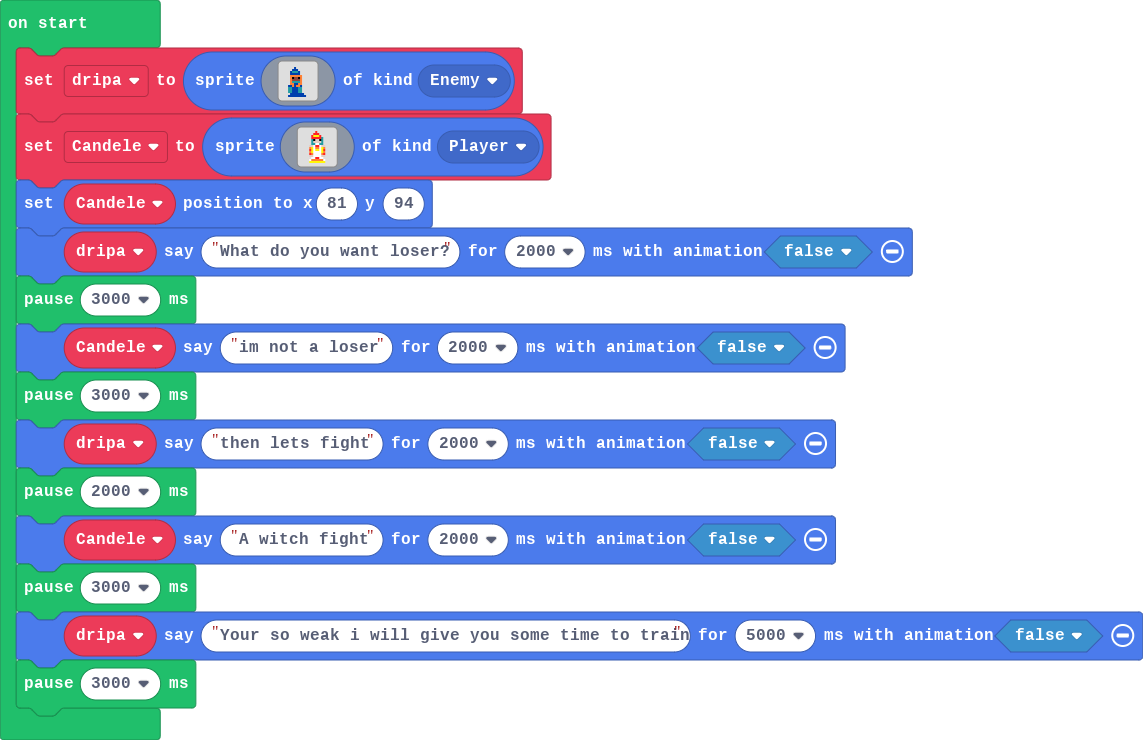
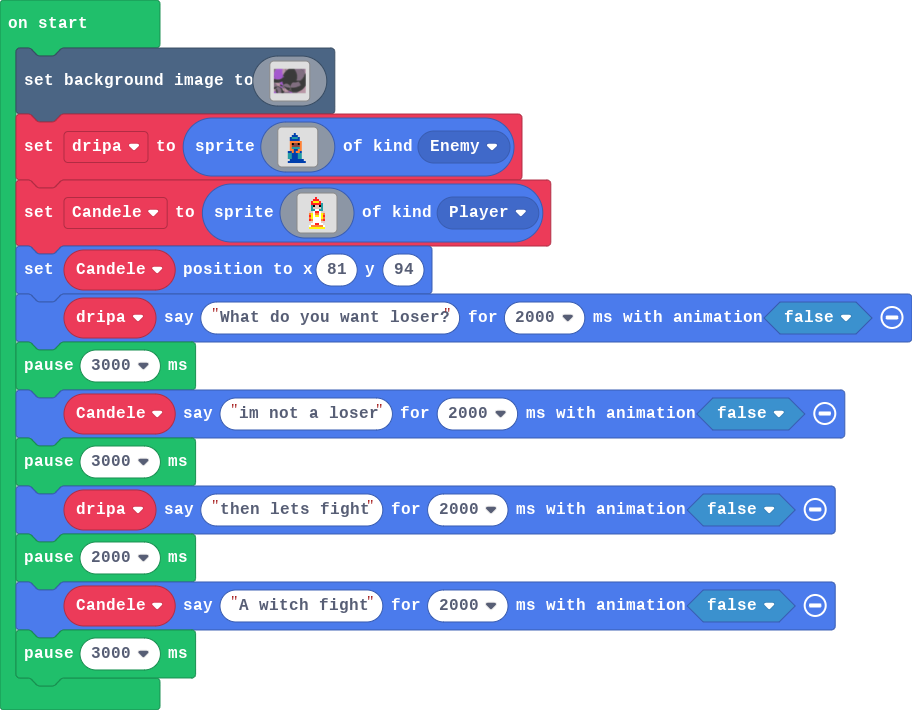
Update main.blocks, main.ts, tilemap.g.jres, tilemap.g.ts

diff --git a/main.ts b/main.ts
@@ -1,6 +1,128 @@
 namespace SpriteKind {
     export const which = SpriteKind.create()
 }
+scene.setBackgroundImage(img`
+    cccccccccccccaaaaaaaaaaaaaaaaaaaaaaaaaaaaaaaabbbbbbbbbbbbbffbbbbbbbbbbbbbbffffffffffffffffffffffffffffffcccccccccccccccccccccccccccccffccccccccccccccccccccbbbbb
+    cccccccccccccaaaaaaaaaaaaaaaaaaaaaaaaaaaaaaabbbbbbbbbbbbbbbfbbbbbbbbbbbbffffffffffffffffffffffffffffffffcccccccccccccccccccccccccccccccffcccccccccccccccccccbbbb
+    ccccccccccccaaaaaaaaaaaaaaaaaaaaaaaaaaaaaaaabbbbbbbbbbbbbbbffbbbbbbbbbbffffffffffffffffffffffffffffffffffccccccccccccccccccccccccccccccccfccccccccccccccccccbbbb
+    cccccccccccaaaaaaaaaaaaaaaaaaaaaaaaaaaaaaaaabbbbbbbbbbbbbbbffbbbbbbbbfffffffffffffffffffffffffffffffffffffccccccccccccccccccccccccccccccccffccccccccccccccccbbbb
+    ccccccccccaaaaaaaaaaaaaaaaaaaaaaaaaaaaaaaaaabbbbbbbbbbbbbbbbfbbbbbbbfffffffffffffffffffffffffffffffffffffffcccccccccccccccccccccccccccccccccfcccccccccccccccbbbb
+    ccccccccccaaaaaaaaaaaaaaaaaaaaaaaaaaaaaaaaaabbbbbbbbbbbbbbbbfbbbbbbffffffffffffffffffffffffffffffffffffffffccccccccccccccccccccccccccccccccccfccccccccccccccbbbb
+    cccccccccaaaaaaaaaaaaaaaaaaaaaaaaaaaaaaaaaaabbbbbbbbbbbbbbbbffbbbfffffffffffffffffffffffffffffffffffffffffffccccccccccccccccccccccccccccccccccffccccccccccccbbbb
+    ccccccccaaaaaaaaaaaaaaaaaaaaaaaaaaaaaaaaaaaabbbbbbbbbbbbbbbbffbbfffffffffffffffffffffffffffffffffffffffffffffcccccccccccccccccccccccccccccccccccfcccccccccccbbbb
+    ccccccccaaaaaaaaaaaaaaaaaaaaaaaaaaaaaaaaaaaabbbbbbbbbbbbbbbbffbffffffffffffffffffffffffffffffffffffffffffffffccccccccccccccccccccccccccccccccccccfccccccccccbbbb
+    cccccccaaaaaaaaaaaaaaaaaaaaaaaaaaaaaaaaaaaaabbbbbbbbbbbbbbbbffffffffffffffffffffffffffffffffffffffffffffffffffccccccccccccccccccccccccccccccccccccfcccccccccbbbb
+    cccccccaaaaaaaaaaaaaaaaaaaaaaaaaaaaaaaaaaaaabbbbbbbbbbbbbbbbffffffffffffffffffffffffffffffffffffffffffffffffffcccccccccccccccccccccccccccccccccccccfccccccccbbbb
+    ccccccaaaaaaaaaaaaaaaaaaaaaaaaaaaaaaaaaaaaaabbbbbbbbbbbbbbbbfffffffffffffffffffffffffffffffffffffffffffffffffffcccccccccccccccccccccccccccccccccccccfcccccccbbbb
+    ccccccaaaaaaaaaaaaaaaaaaaaaaaaaaaaaaaaaaaaaabbbbbbbbbbbbbbbffffffffffffffffffffffffffffffffffffffffffffffffffffccccccccccccccccccccccccccccccccccccccfccccccbbbb
+    cccccaaaaaaaaaaaaaaaaaaaaaaaaaaaaaaaaaaaaaaabbbbbbbbbbbbbbffffffffffffffffffffffffffffffffffffffffffffffffffffffccccccccccccccccccccccccccccccccccccccfcccccbbbb
+    cccccaaaaaaaaaaaaaaaaaaaaaaaaaaaaaaaaaaaaaaabbbbbbbbbbbbbfffffffffffffffffffffffffffffffffffffffffffffffffffffffcccccccccccccccccccccccccccccccccccccccfccccbbbb
+    ccccaaaaaaaaaaaaaaaaaaaaaaaaaaaaaaaaaaaaaaaabbbbbbbbbbbbfffffffffffffffffffffffffffffffffffffffffffffffffffffffffcccccccccccccccccccccccccccccccccccccccfcccbbbb
+    ccccaaaaaaaaaaaaaaaaaaaaaaaaaaaaaaaaaaaaaaaabbbbbbbbbbbbfffffffffffffffffffffffffffffffffffffffffffffffffffffffffcccccccccccccccccccccccccccccccccccccccfcccbbbb
+    cccaaaaaaaaaaaaaaaaaaaaaaaaaaaaaaaaaaaaaaaaabbbbbbbbbbbfffffffffffffffffffffffffffffffffffffffffffffffffffffffffffcccccccccccccccccccccccccccccccccccccccfccbbbb
+    cccaaaaaaaaaaaaaaaaaaaaaaaaaaaaaaaaaaaaaaaaabbbbbbbbbbffffffffffffffffffffffffffffffffffffffffffffffffffffffffffffccccccccccccccccccccccccccccccccccccccccfcbbbb
+    cccaaaaaaaaaaaaaaaaaaaaaaaaaaaaaaaaaaaaaaaaabbbbbbbbbfffffffffffffffffffffffffffffffffffffffffffffffffffffffffffffcccccccccccccccccccccccccccccccccccccccccfbbbb
+    ccaaaaaaaaaaaaaaaaaaaaaaaaaaaaaaaaaaaaaaaaaabbbbbbbbbffffffffffffffffffffffffffffffffffffffffffffffffffffffffffffffccccccccccccccccccccccccccccccccccccccccfbbbb
+    ccaaaaaaaaaaaaaaaaaaaaaaaaaaaaaaaaaaaaaaaaaabbbbbbbbfffffffffffffffffffffffffffffffffffffffffffffffffffffffffffffffcccccccccccccccccccccccccccccccccccccccccfbbb
+    ccaaaaaaaaaaaaaaaaaaaaaaaaaaaaaaaaaaaaaaaaaaabbbbbbffffffffffffffffffffffffffffffffffffffffffffffffffffffffffffffffccccccccccccccccccccccccccccccccccccccccfffbb
+    caaaaaaaaaaaaaaaaaaaaaaaaaaaaaaaaaaaaaaaaaaaabbbbbbfffffffffffffffffffffffffffffffffffffffffffffffffffffffffffffffffcccccccccccccccccccccccccccccccccccccccfffbb
+    caaaaaaaaaaaaaaaaaaaaaaaaaaaaaaaaaaaaaaaaaaaabbbbbffffffffffffffffffffffffffffffffffffffffffffffffffffffffffffffffffcccccccccccccccccccccccccccccccccccccccffffb
+    caaaaaaaaaaaaaaaaaaaaaaaaaaaaaaaaaaaaaaaaaaaabbbbbffffffffffffffffffffffffffffffffffffffffffffffffffffffffffffffffffcccccccccccccccccccccccccccccccccccccccffffb
+    faaaaaaaaaaaaaaaaaaaaaaaaaaaaaaaaaaaaaaaaaaaaabbbfffffffffffffffffffffffffffffffffffffffffffffffffffffffffffffffffffccccccccccccccccccccccccccccccccccccccffffff
+    faaaaaaaaaaaaaaaaaaaaaaaaaaaaaaaaaaaaaaaaaaaaabbbfffffffffffffffffffffffffffffffffffffffffffffffffffffffffffffffffffccccccccccccccccccccccccccccccccccccccffffff
+    faaaaaaaaaaaaaaaaaaaaaaaaaaaaaaaaaaaaaaaaaaaaabbfffffffffffffffffffffffffffffffffffffffffffffffffffffffffffffffffffffcccccccccccccccccccccccccccccccccccccffffff
+    afaaaaaaaaaaaaaaaaaaaaaaaaaaaaaaaaaaaaaaaaaaaabbfffffffffffffffffffffffffffffffffffffffffffffffffffffffffffffffffffffcccccccccccccccccccccccccccccccccccccffffff
+    afaaaaaaaaaaaaaaaaaaaaaaaaaaaaaaaaaaaaaaaaaaaaaffffffffffffffffffffffffffffffffffffffffffffffffffffffffffffffffffffffccccccccccccccccccccccccccccccccccccfffffff
+    afaaaaaaaaaaaaaaaaaaaaaaaaaaaaaaaaaaaaaaaaaaaaaffffffffffffffffffffffffffffffffffffffffffffffffffffffffffffffffffffffccccccccccccccccccccccccccccccccccccfffffff
+    aafaaaaaaaaaaaaaaaaaaaaaaaaaaaaaaaaaaaaaaaaaaaaffffffffffffffffffffffffffffffffffffffffffffffffffffffffffffffffffffffcccccccccccccccccccccccccccccccccccffffffff
+    aafaaaaaaaaaaaaaaaaaaaaaaaaaaaaaaaaaaaaaaaaaaafafffffffffffffffffffffffffffffffffffffffffffffffffffffffffffffffffffffcccccccccccccccccccccccccccccccccccffffffff
+    aafaaaaaaaaaaaaaaaaaaaaaaaaaaaaaaaaaaaaaaaaaaafafffffffffffffffffffffffffffffffffffffffffffffffffffffffffffffffffffffcccccccccccccccccccccccccccccccccccffffffff
+    aaafaaaaaaaaaaaaaaaaaaaaaaaaaaaaaaaaaaaaaaaaafaaaffffffffffffffffffffffffffffffffffffffffffffffffffffffffffffffffffffccccccccccccccccccccccccccccccccccfffffffff
+    aaafaaaaaaaaaaaaaaaaaaaaaaaaaaaaaaaaaaaaaaaaafaaaffffffffffffffffffffffffffffffffffffffffffffffffffffffffffffffffffffccccccccccccccccccccccccccccccccccfffffffff
+    aaafaaaaaaaaaaaaaaaaaaaaaaaaaaaaaaaaaaaaaaaaafaaaafffffffffffffffffffffffffffffffffffffffffffffffffffffffffffffffffffcccccccccccccccccccccccccccccccccffffffffff
+    aaaafaaaaaaaaaaaaaaaaaaaaaaaaaaaaaaaaaaaaaaaafaaaafffffffffffffffffffffffffffffffffffffffffffffffffffffffffffffffffffcccccccccccccccccccccccccccccccccffffffffff
+    aaaafaaaaaaaaaaaaaaaaaaaaaaaaaaaaaaaaaaaaaaafaaaaafffffffffffffffffffffffffffffffffffffffffffffffffffffffffffffffffffccccccccccccccccccccccccccccccccfffffffffff
+    aaaaafaaaaaaaaaaaaaaaaaaaaaaaaaaaaaaaaaaaaaafaaaaffffffffffffffffffffffffffffffffffffffffffffffffffffffffffffffffffffccccccccccccccccccccccccccccccccfffffffffff
+    aaaaafaaaaaaaaaaaaaaaaaaaaaaaaaaaaaaaaaaaaaafaaafffffffffffffffffffffffffffffffffffffffffffffffffffffffffffffffffffffcccccccccccccccccccccccccccccccffffffffffff
+    aaaaaafaaaaaaaaaaaaaaaaaaaaaaaaaaaaaaaaaaaaafaaffffffffffffffffffffffffffffffffffffffffffffffffffffffffffffffffffffffccccccccccccccccccccccccccccccfffffffffffff
+    aaaaaafaaaaaaaaaaaaaaaaaaaaaaaaaaaaaaaaaaaafaffffffffffffffffffffffffffffffffffffffffffffffffffffffffffffffffffffffffccccccccccccccccccccccccccccccfffffffffffff
+    aaaaaaafaaaaaaaaaaaaaaaaaaaaaaaaaaaaaaaaaaaffffffffffffffffffffffffffffffffffffffffffffffffffffffffffffffffffffffffffcccccccccccccccccccccccccccccffffffffffffff
+    aaaaaaafaaaaaaaaaaaaaaaaaaaaaaaaaaaaaaaaaaaffffffffffffffffffffffffffffffffffffffffffffffffffffffffffffffffffffffffffccccccccccccccccccccccccccccfffffffffffffff
+    aaaaaaaafaaaaaaaaaaaaaaaaaaaaaaaaaaaaaaaaffffffffffffffffffffffffffffffffffffffffffffffffffffffffffffffffffffffffffffcccccccccccccccccccccccccccffffffffffffffff
+    aaaaaaaafaaaaaaaaaaaaaaaaaaaaaaaaaaaaaaffffffffffffffffffffffffffffffffffffffffffffffffffffffffffffffffffffffffffffffcccccccccccccccccccccccccccffffffffffffffff
+    ffaaaaaaafaaaaaaaaaaaaaaaaaaaaaaaaaaaffffffffffffffffffffffffffffffffffffffffffffffffffffffffffffffffffffffffffffffffccccccccccccccccccccccccccfffffffffffffffff
+    faffaaaaafaaaaaaaaaaaaaaaaaaaaaaaaafffffffffffffffffffffffffffffffffffffffffffffffffffffffffffffffffffffffffffffffffccccccccccccccccccccccccccffffffffffffffffff
+    fffffffccafaaaaaaaaaaaaaaaaaaaaaffffffffffffffffffffffffffffffffffffffffffffffffffffffffffffffffffffffffffffffffffffcccccccccccccccccccccccccfffffffffffffffffff
+    ffffffffffcfcaaaaaaaaaaaaaaaafffffffffffffffffffffffffffffffffffffffffffffffffffffffffffffffffffffffffffffffffffffffccccccccccccccccccccccccffffffffffffffffffff
+    ffffffffffffffffffffffffffffffffffffffffffffffffffffffffffffffffffffffffffffffffffffffffffffffffffffffffffffffffffffcccccccccccccccccccccccfffffffffffffffffffff
+    ffffffffffffffffffffffffffffffffffffffffffffffffffffffffffffffffffffffffffffffffffffffffffffffffffffffffffffffffffffccccccccccccccccccccccffffffffffffffffffffff
+    fffffffffffffffffffffffffffffffffffffffffffffffffffffffffffffffffffffffffffffffffffffffffffffffffffffffffffffffffffccccccccccccccccccccccfffffffffffffffffffffff
+    fffffffffffffffffffffffffffffffffffffffffffffffffffffffffffffffffffffffffffffffffffffffffffffffffffffffffffffffffffccccccccccccccccccccfffffffffffffffffffffffff
+    fffffffffffffffffffffffffffffffffffffffffffffffffffffffffffffffffffffffffffffffffffffffffffffffffffffffffffffffffffcccccccccccccccccccffffffffffffffffffffffffff
+    fffffffffffffffffffffcffffffffffffffffffffffffffffffffffffffffffffffffffffffffffffffffffffffffffffffffffffffffffffcccccccccccccccccccfffffffffffffffffffffffffff
+    fffffffffffffffffffffffcffffffffffffffffffffffffffffffffffffffffffffffffffffffffffffffffffffffffffffffffffffffffffffffffffffffffffcfffffffffffffffffffffffffffff
+    ffffffffffffffffffffffffffffffffffffffffffffffffffffffffffffffffffffffffffffffffffffffffffffffffffffffffffffffffffffffffffffffffffffffffffffffffffffffffffffffff
+    ffffffffffffffffffffffffffffffffffffffffffffffffffffffffffffffffffffffffffffffffffffffffffffffffffffffffffffffffffffffffffffffffffffffffffffffffffffffffffffffff
+    ffffffffffffffffffffffffffffffffffffffffffffffffffffffffffffffffffffffffffffffffffffffffffffffffffffffffffffffffffffffffffffffffffffffffffffffffffffffffffffffff
+    ffffffffffffffffffffffffffcfffffffffffffffafffffffffffffffffffffffffffffffffffffffffffffffffffffffffffffffffffffffffffffffffffffffffffffffffffffffffffffffffffff
+    fffffffffffffffffffffffffffcffffffffffffaaafffffffffffffffffffffffffffffffffffffffffffffffffffffffffffffffffffffffffffffffffffffffffffffffffffffffffffffffffffff
+    fffffffffffffffffffffffffffffffffffffffaaaaffffffffffffffffffffffffffffffffffffffffffffffffffffffffffffffffffffffffffffffccccfffffffffffffffffffffffffffffffffff
+    ffffffffffffffffffffffffffffffffffffaaaaaaaffffffffffffffffffffffffffffffffffffffffffffffffffffffffffffffffffffffffffffcccccccffffffffffffffffffffffffffffffffff
+    cffffffffffffffffffffffffffffcffffaaaaaaaaaafffffffffffffffffffffffffffffffffffffffffffffffffffffffffffffffffffffffccccccccccccfffffffffffffffffffffffffffffffff
+    ccccfffffffffffffffffffffffffffaaaaaaaaaaaaafffffffffffffffffffffffffffffffffffffffffffffffffffffffffffffffffffccccccccccccccccfffffffffffffffffffffffffffffffff
+    ccccccccfffffffffffffffffffbbbcaaaaaaaaaaaaaffffffffffffffffffffffffffffffffffffffffffffffffffffccccccccccccccccccccccccccccccccffffffffffffffffffffffffffffffff
+    ccccccccbbbbbbbbbbbbbbbbbffbbbcaaaaaaaaaaaaaffffffffffffffffffffffffffffffffffffffffffffffffffbccccccccccccccccccccccccccccccccccfffffffffffffffffffffffffffffff
+    cccccccccbbbbbbbbbbbbbbbbbbfbbbcaaaaaaaaaaaaaffffffffffffffffffffffffffffffffffffffffffffffffbccccccccccccccccccccccccccccccccccccffffffffffffffffffffffffffffff
+    ccccccccccbbbbbbbbbbbbbbbbbbfbbcaaaaaaaaaaaaafffffffffffffffffffffffffffffffffffffffffffffffbcccccccccccccccccccccccccccccccccccccffffffffffffffffffffffffffffff
+    ccccccccccbbbbbbbbbbbbbbbbbbbfbcaaaaaaaaaaaaaffffffffffffffffffffffffffffffffffffffffffffffbcccccccccccccccccccccccccccccccccccccccfffffffffffffffffffffffffffff
+    cccccccccccbbbbbbbbbbbbbbbbbbbfcaaaaaaaaaaaaaffffffffffffffffffffffffffffffffffffffffffffffbccccccccccccccccccccccccccccccccccccccccffffffffffffffffffffffffffff
+    ccccccccccccbbbbbbbbbbbbbbbbbbbffaaaaaaaaaaaaaffffffffffffffffffffffffffffffffffffffffffffbcccccccccccccccccccccccccccccccccccccccccffffffffffffffffffffffffffff
+    cccccccccccccbbbbbbbbbbbbbbbbbbbcfaaaaaaaaaaaaffffffffffbbbbbbbbbbbbbffffffffffffffffffffbccccccccccccccccccccccccccccccccccccccccccffffffffffffffffffffffffffff
+    cccccccccccccbbbbbbbbbbbbbbbbbbbcffaaaaaaaaaaaafffffffbbcccccccccccccbbffffffffffffffffffbcccccccccccccccccccccccccccccccccccccccccccfffffffffffffffffffffffffff
+    ccccccccccccccbbbbbbbbbbbbbbbbbbcffffaaaaaaaaaafffffbbcccccccccccccccccbbfffffffffffffffbccccccccccccccccccccccccccccccccccccccccccccfffffffffffffffffffffffffff
+    cccccccccccccccbbbbbbbbbbbbbbbbbcfffffaaaaaaaaafffbbcccccccccccccccccccccbbfffffffffffffbcccccccccccccccccccccccccccccccccccccccccccccffffffffffffffffffffffffff
+    ccccccccccccccccbbbbbbbbbbbbbbbbcfffffffaaaaaaaafbcccccccccccccccccccccccccbfffffffffffbccccccccccccccccccccccccccccccccccccccccccccccffffffffffffffffffffffffff
+    cccccccccccccccccbbbbbbbbbbbbbbbcffffffffaaaaaaafcccccccccccccccccccccccccccbffffffffffbccccccccccccccccccccccccccccccccccccccccccccccffffffffffffffffffffffffff
+    ccccccccccccccccccbbbbbbbbbbbbbbcffffffffffaaaabcfcccccccccccccccccccccccccccbffffffffbcccccccccccccccccccccccccccccccccccccccccccccccffffffffffffffffffffffffff
+    cccccccccccccccccccbbbbbbbbbbbbbcffffffffffffabccfccccccccccccccccccccccccccccbfffffffbcccccccccccccccccccccccccccccccccccccccccccccffffffffffffffffffffffffffff
+    ccccccccccccccccccccbbbbbbbbbbbbcffffffffffffffcccfcccccccccccccccccccccccccccbffffffbccccccccccccccccccccccccccccccccccccccccccccfffffffffffffffffffffffffffffb
+    ccccccccccccccccccccccbbbbbbbbbbcffffffffffffbcffcfccccccccccccccccccccccccccccbfffffbccccccccccccccccccccccccccccccccccccccccccfffffffffffffffffffffffffffffffb
+    cccccccccccccccccccccccbbffffffffffffffffffffbcccfffcccccccccccccccccccccccccccbfffffbccccccccccccccccccccccccccccccccccccccccffffffffffffffffffffffffffffffffbb
+    ccccccccccccccccccccccfffbbbbbbbcaaaaaffffffbccccccffcccccccccccccccccccccccccccbffffbccccccccccccccccccccccccccccccccccccccffffffffffffffffffffffffffffffffffbb
+    ccccccccccccccccccccffffffbbbbbbcaaaaaaaafffbcccccccffffccccccccccccccccccccccccbfffbccccccccccccccccccccccccccccccccccccffffffffffffffffffffffffffffffffffffbbb
+    cccccccffffffffffffffffffffbbbbbcaaaaaaaaaafcccccccccffffffccccccccccccccccccccccbffbcccccccccccccccccccccccccccccccccffffffffffffffffffffffffffffffffffffffbbbb
+    cccccffffffffffffffcccfffffffbbfaaaaaaaaaaabfccccccccfffffffffcccccccccccccccccccbffbccccccccccccccccccccccccccccccfffffffffffffffffffffffffffffffffffffffffbbbb
+    cccfffffffffffffffccccccffffffffaaaaaaaaaaabcffcccccccfffffffffffccccccccccccccccbffbcccccccccccccccccccccccccccfffffffffffffffffffffffffffffffffffffffffffbbbbb
+    cfffffffffffffffccccccccccfffffffaaaaaaaaaabcccfcccccccffffffffffffffccccccccccccbffbcccccccccccccccccccccccffffffffffffffffffffffffffffffffffffffffffffffbbbbbb
+    ffffffffffffffffccccccccccccfffffffaaaaaaaabcccfccccccccfffffffffffffffffffccccccbffbcccccccccccccccccfffffffffffffffffffffffffffffffffffffffffffffffffffbbbbbbb
+    fffffffffffffffcccccccccccccccfffffffaaaaaabccccfcccccccfffffffffffffffffffffffffffffffffffffffffffffffffffffffffffffffffffffffffffffffffffffffffffffffffbbbbbbb
+    ffffffffffffffcccccccccccccccccfffffffffaaabcccccfcccccccffffffffffffffffffffffffbffbfffffffffffffffffffffffffffffffffffffffffffffffffffffffffffffffffffbbbbbbbb
+    fffffffffffffcccccccccccccccccccfffffffffffbccccccfcccccccfffffffffffffffffffffffbffbffffffffffffffffffffffffffffffffffffffffffffffffffffffffffffffffffbbbbbbbbb
+    fffffffffffffccccccccccccccccccccffffffffffbbbbbccfccccccccffffffffffffffffffffffbffbfffffffffffffffffffffffffffffffffffffffffffffffffffffffffffffffffbbbbbbbbbb
+    ffffffffffffccccccccccccccccccccccfffffffffbbbbbbbbfbbbbbbbbfffffffffffffffffffffbffbffffffffffffffffffffffffffffffffffffffffffffffffffffffffffffffffbbbbbbbbbbb
+    ffffffffffffccccccccccccccccccccccfffffffffbbbbbbbbfbbbbbbbbbffffffffffffffffffffbffbfffffffffffffffffffffffffffffffffffffffffffffffffffffffffffffffbbbbbbbbbbbb
+    ffffffffffffcccccccccccccccccccccccffffffffbbbbbbbbfbbbbbbbbbbfffffffffffffffffffbffbffffffffffffffffffffffffffffffffffffffffffffffffffffffffffffffbbbbbbbbbbbbb
+    fffbbbbbbbffffcccccccccccccccccccccffffffffbbbbbbbbbfbbbbbbbbbbffffffffffffffffffbffbfffffffffffffffffffffffffffffffffffffffffffffffffffffffffffffbbbbbbbbbbbbbb
+    ffbbbbbbbbfffffcccccccccccccccccccccffffffffbbbbbbbbfbbbbbbbbbbbffffffffffffffffbfffbffffffffffffffffffffffffffffffffffffffffffffffffffffffffffffbbbbbbbbbbbbbbb
+    bbbbbbbbbbfffffffcccccccccccccccccccffffffffbbbbbbbbfbbbbbbbbbbbbfffffffffffffffbfffbfffffffffffffffffffffffffffffffffffffffffffffffffffffffffffbbbbbbbbbbbbbbbb
+    bbbbbbbbbbffffffffcccccccccccccccccccffffffffbbbbbbbfbbbbbbbbbbbbbbffffffffffffbffffbfffffffffffffffffffffffffffffffffffffffffffffffffffffffffbbbbbbbbbbbbbbbbbb
+    bbbbbbbbbbfffffffffccccccccccccccccccffffffffbbbbbbbfbbbbbbbbbbbbbbbfffffffffffbfffffbfffffffffffffffffffffffffffffffffffffffffffffffffffffffbbbbbbbbbbbbbbbbbbb
+    bbbbbbbbbbfffffffffcccccccccccccccccccffffffffbbbbbbfbbbbbbbbbbbbbbbbfffffffffbffffffbffffffffffffffffffffffffffffffffffffffffffffffffffffffbbbbbbbbbbbbbbbbbbbb
+    bbbbbbbbbbffffffffffccccccccccccccccccffffffffbbbbbbfbbbbbbbbbbbbbbbbbbfffffffbffffffbffffffffffffffffffffffffffffffffffffffffffffffffffffbbbbbbbbbbbbbbbbbbbbbb
+    bbbbbbbbbbfffffffffcfcccccccccccccccccfffffffffbbbbbfbbbbbbbbbbbbbbbbbbbfffffbfffffffbfffffffffffffffffffffffffffffffffffffffffffffffffffbbbbbbbbbbbbbbbbbbbbbbb
+    bbbbbbbbbbfffffffccffcccccccccccccccccffffffffffbbbbfbbbbbbbbbbbbbbbbbbbbcffbfffffffffbffffffffffffffffffffffffffffffffffffffffffffffffbbbbbbbbbbbbbbbbbbbbbbbbb
+    bbbbbbbbbbfffffccffffcccccccccccccccccfffffffffffbbbfbbbbbbbbbbbbbbbbbbbbbcbffffffffffbffffffffffffffffffffffffffffffffffffffffffffffbbbbbbbbbbbbbbbbbbbbbbbbbbb
+    bbbbbbbbbbfffccffffffcccccccccccccccccffffffffffffbbfbbbbbbbbbbbbbbbbbbbbbbaaafffffffffbffffffffffffffffffffffffffffffffffffffffbffbbbbbbbbbbbbbbbbbbbbbbbbbbbbb
+    bbbbbbbbbcfccffffffffcccccccccccccccccfffffffffffffffbbbbbbbbbbbbbbbbbbbbcccaaaafffffffbfffffffffffffffffffffffffffffffffffffffffbbbbbbbbbbbbbbbbbbbbbbbbbbbbbbb
+    cccccccccafffffffffffcccccccccccccccccfffffffffffffffcbbbbbbbbbbbbbbbbbcccccaaaaaaafffffbfffffffffffffffffffffffffffffffffffffcbbbbbbbbbbbbbbbbbbbbbbbbbbbbbbbbb
+    aaaaaaaaaaaffffffffffcccccccccccccccccffffffffffffffccccbbbbbbbbbbbbbccccccccaaaaaaaafffffffffffffffffffffffffffffffffffffffccbbbbbbbbbbbbbbbbbbbbbbbbbbbbbbbbbb
+    aaaaaaaaaaaffffffffffcccccccccccccccccffffffffffffffccccccccccccccccccccccccccaaaaaaaaaaafffffffffffffffffffffffffffffffcccccbbbbbbbbbbbbbbbbbbbbbbbbbbbbbbbbbbb
+    aaaaaaaaaaaffffffffffcccccccccccccccccffffffffffffffccccccccccccccccccccccccccccaaaaaaaaabcccfffffffffffffffffffffffcccccccbbbbbbbbbbbbbbbbbbbbbbbbbbbbbbbbbbbbb
+    aaaaaaaaaaaafffffffffcccccccccccccccccfffffffffffffccccccccccccccccccccccccccccccaaaaaaaaabcccccccccccccccccccccccccccccccbbbbbbbbbbbbbbbbbbbbbbbbbbbbbbbbbbbbbb
+    aaaaaaaaaaaafffffffffcccccccccccccccccfffffffffffffcccccccccccccccccccccccccccccccaaaaaaaaabcccccccccccccccccccccccccccccbbbbbbbbbbbbbbbbbbbbbbbbbbbbbbbbbbbbbbb
+    aaaaaaaaaaaaafffffffccccccccccccccccccffffffffffffccccccccccccccccccccccccccccccccccaaaaaaabcccccccccccccccccccccccccccbbbbbbbbbbbbbbbbbbbbbbbbbbbbbbbbbbbbbbbbb
+    aaaaaaaaaaaaaafffffcccccccccccccccccccfffffffffffccccccccccccccccccccccccccccccccccccaaaaaaabcccccccccccccccccccccccccbbbbbbbbbbbbbbbbbbbbbbbbbbbbbbbbbbbbbbbbbb
+    `)
 let dripa = sprites.create(assets.image`myImage1`, SpriteKind.Enemy)
 let Candele = sprites.create(assets.image`myImage0`, SpriteKind.Player)
 Candele.setPosition(81, 94)
@@ -11,6 +133,4 @@ pause(3000)
 dripa.sayText("then lets fight", 2000, false)
 pause(2000)
 Candele.sayText("A witch fight", 2000, false)
-pause(3000)
-dripa.sayText("Your so weak i will give you some time to train", 5000, false)
 pause(3000)

diff --git a/tilemap.g.ts b/tilemap.g.ts
@@ -1,0 +1,14 @@
+// Auto-generated code. Do not edit.
+namespace myTiles {
+    //% fixedInstance jres blockIdentity=images._tile
+    export const transparency16 = image.ofBuffer(hex``);
+
+    helpers._registerFactory("tile", function(name: string) {
+        switch(helpers.stringTrim(name)) {
+            case "transparency16":return transparency16;
+        }
+        return null;
+    })
+
+}
+// Auto-generated code. Do not edit.
